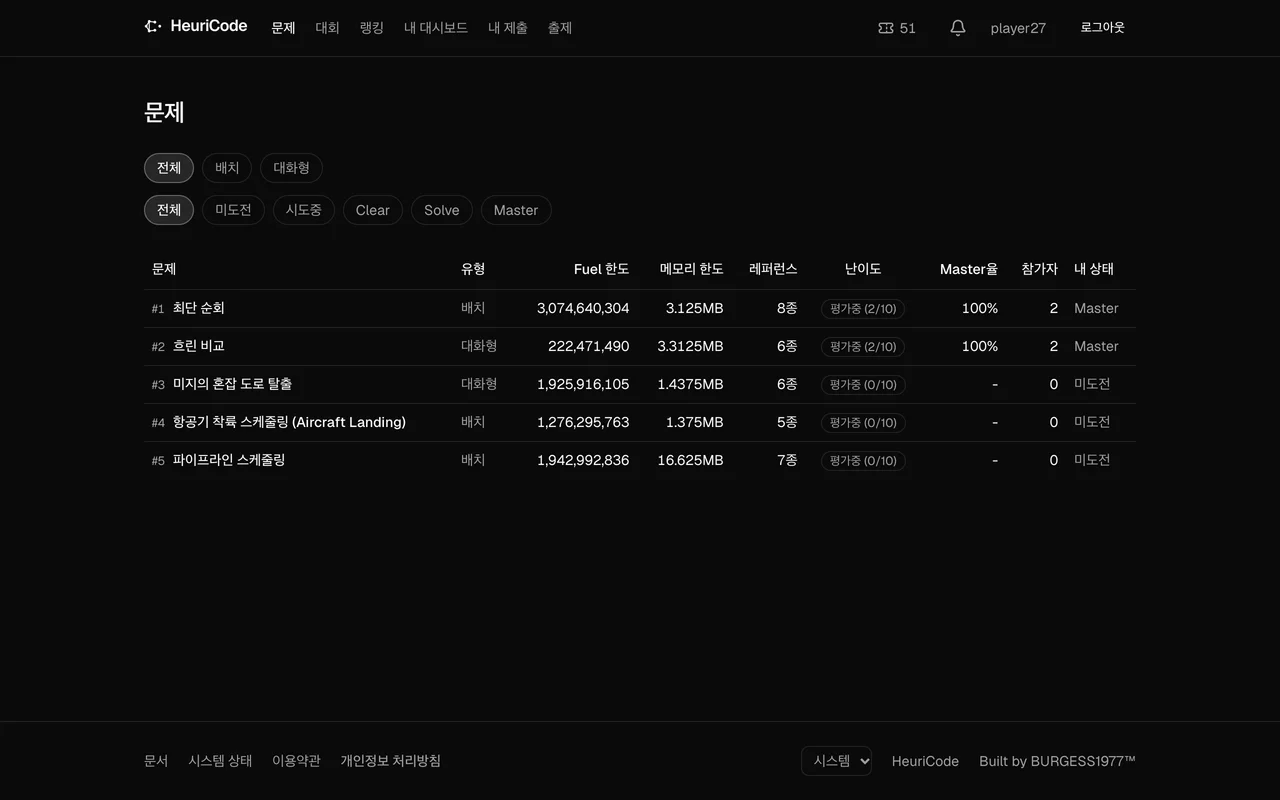
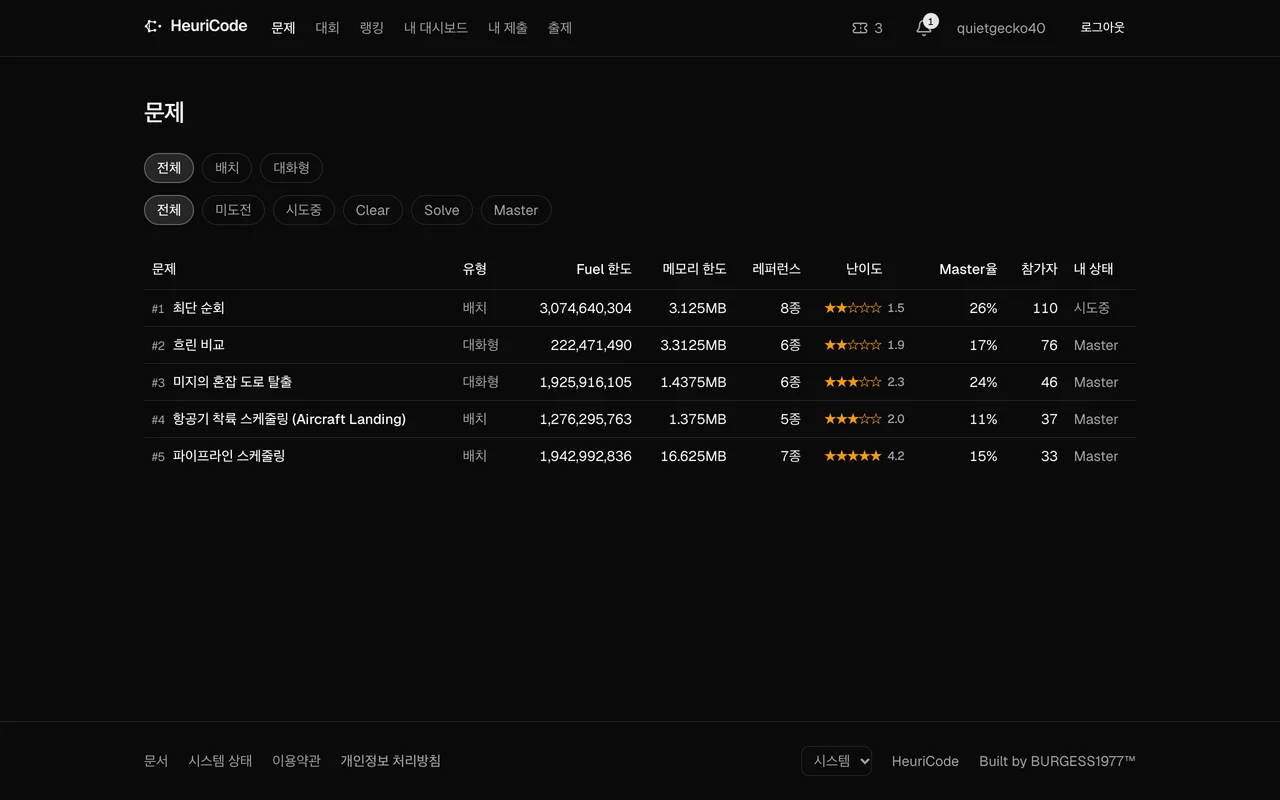
product: update heuri-code contents

diff --git a/products/01-heuri-code/index.md b/products/01-heuri-code/index.md
@@ -7,8 +7,12 @@ summary_en: A competitive platform for algorithm optimization
 
 ![제출 평가 화면: Score와 레퍼런스별 승패](report.webp)
 
+![히든 테스트별 Overall과 레퍼런스별 승패 매트릭스](matrix.webp)
+
 ![문제 리더보드와 자원 한도](leaderboard.webp)
 
-![문제 목록](problems.webp)
+![유저 랭킹과 티어 분포](ranking.webp)
+
+![문제 목록: 난이도, Master율, 참가자 수](problems.webp)
 
 ![내 대시보드: 티어, 제출 티켓, 최근 제출](dashboard.webp)
